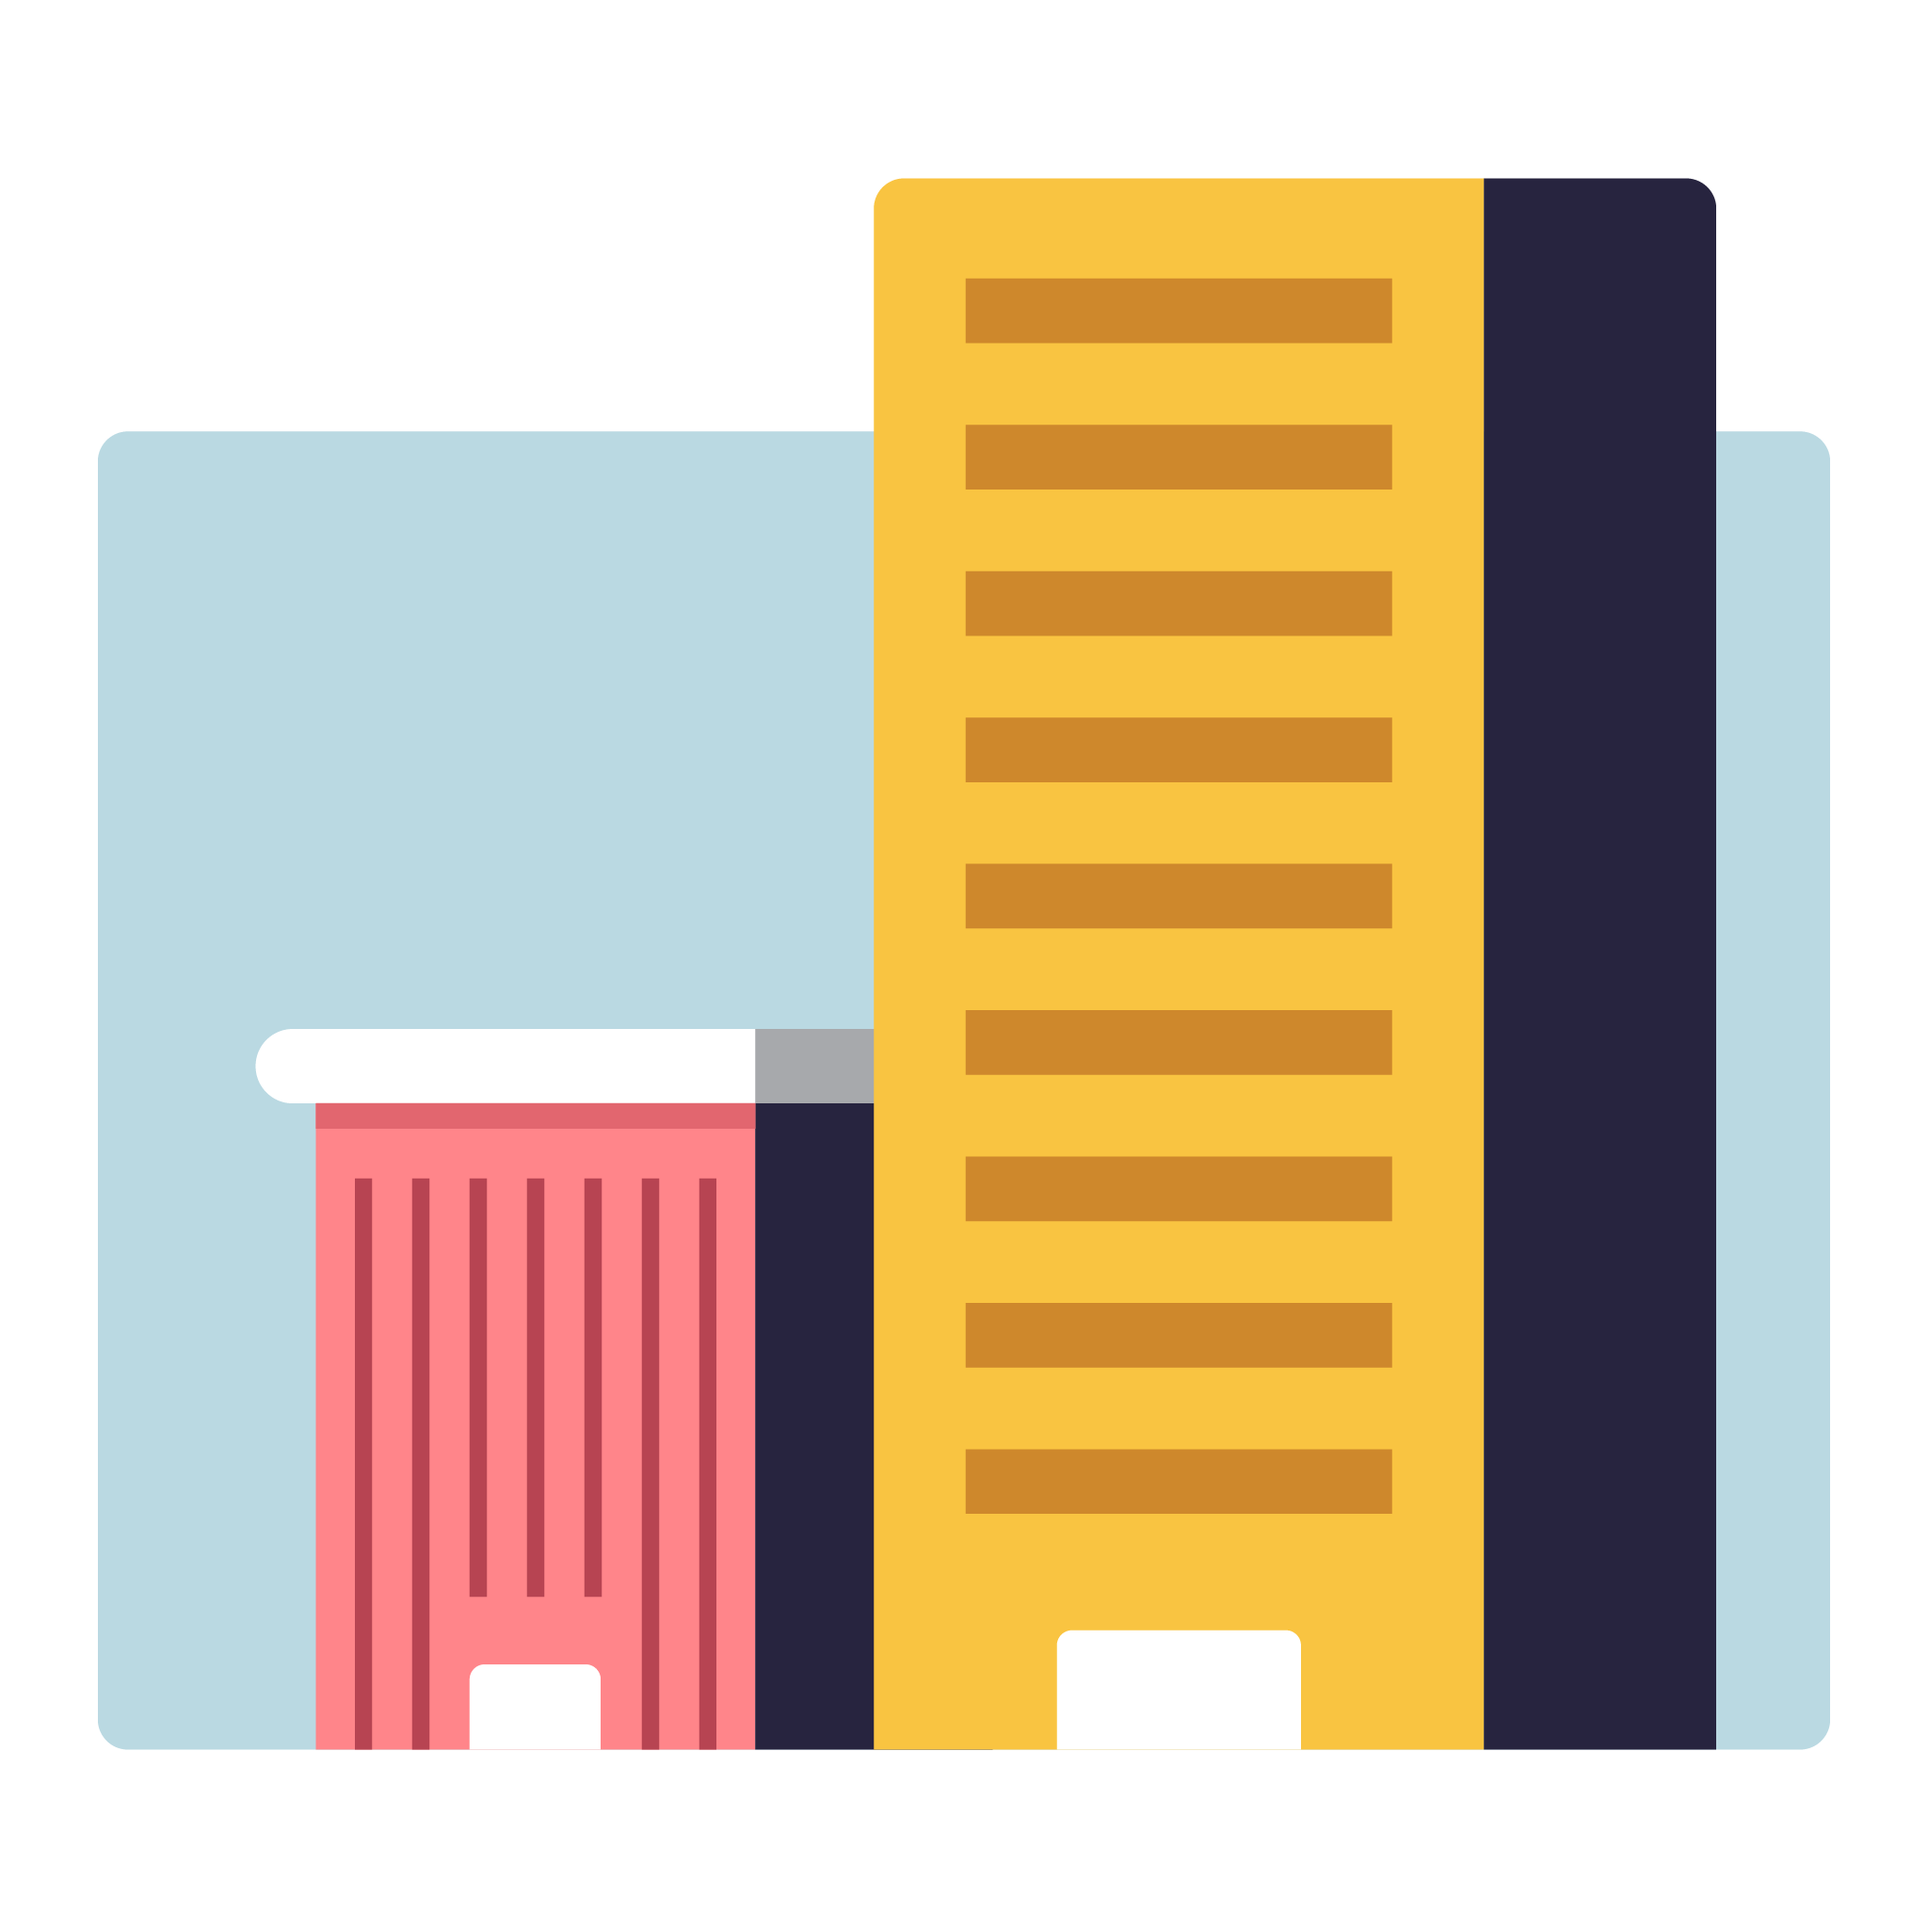
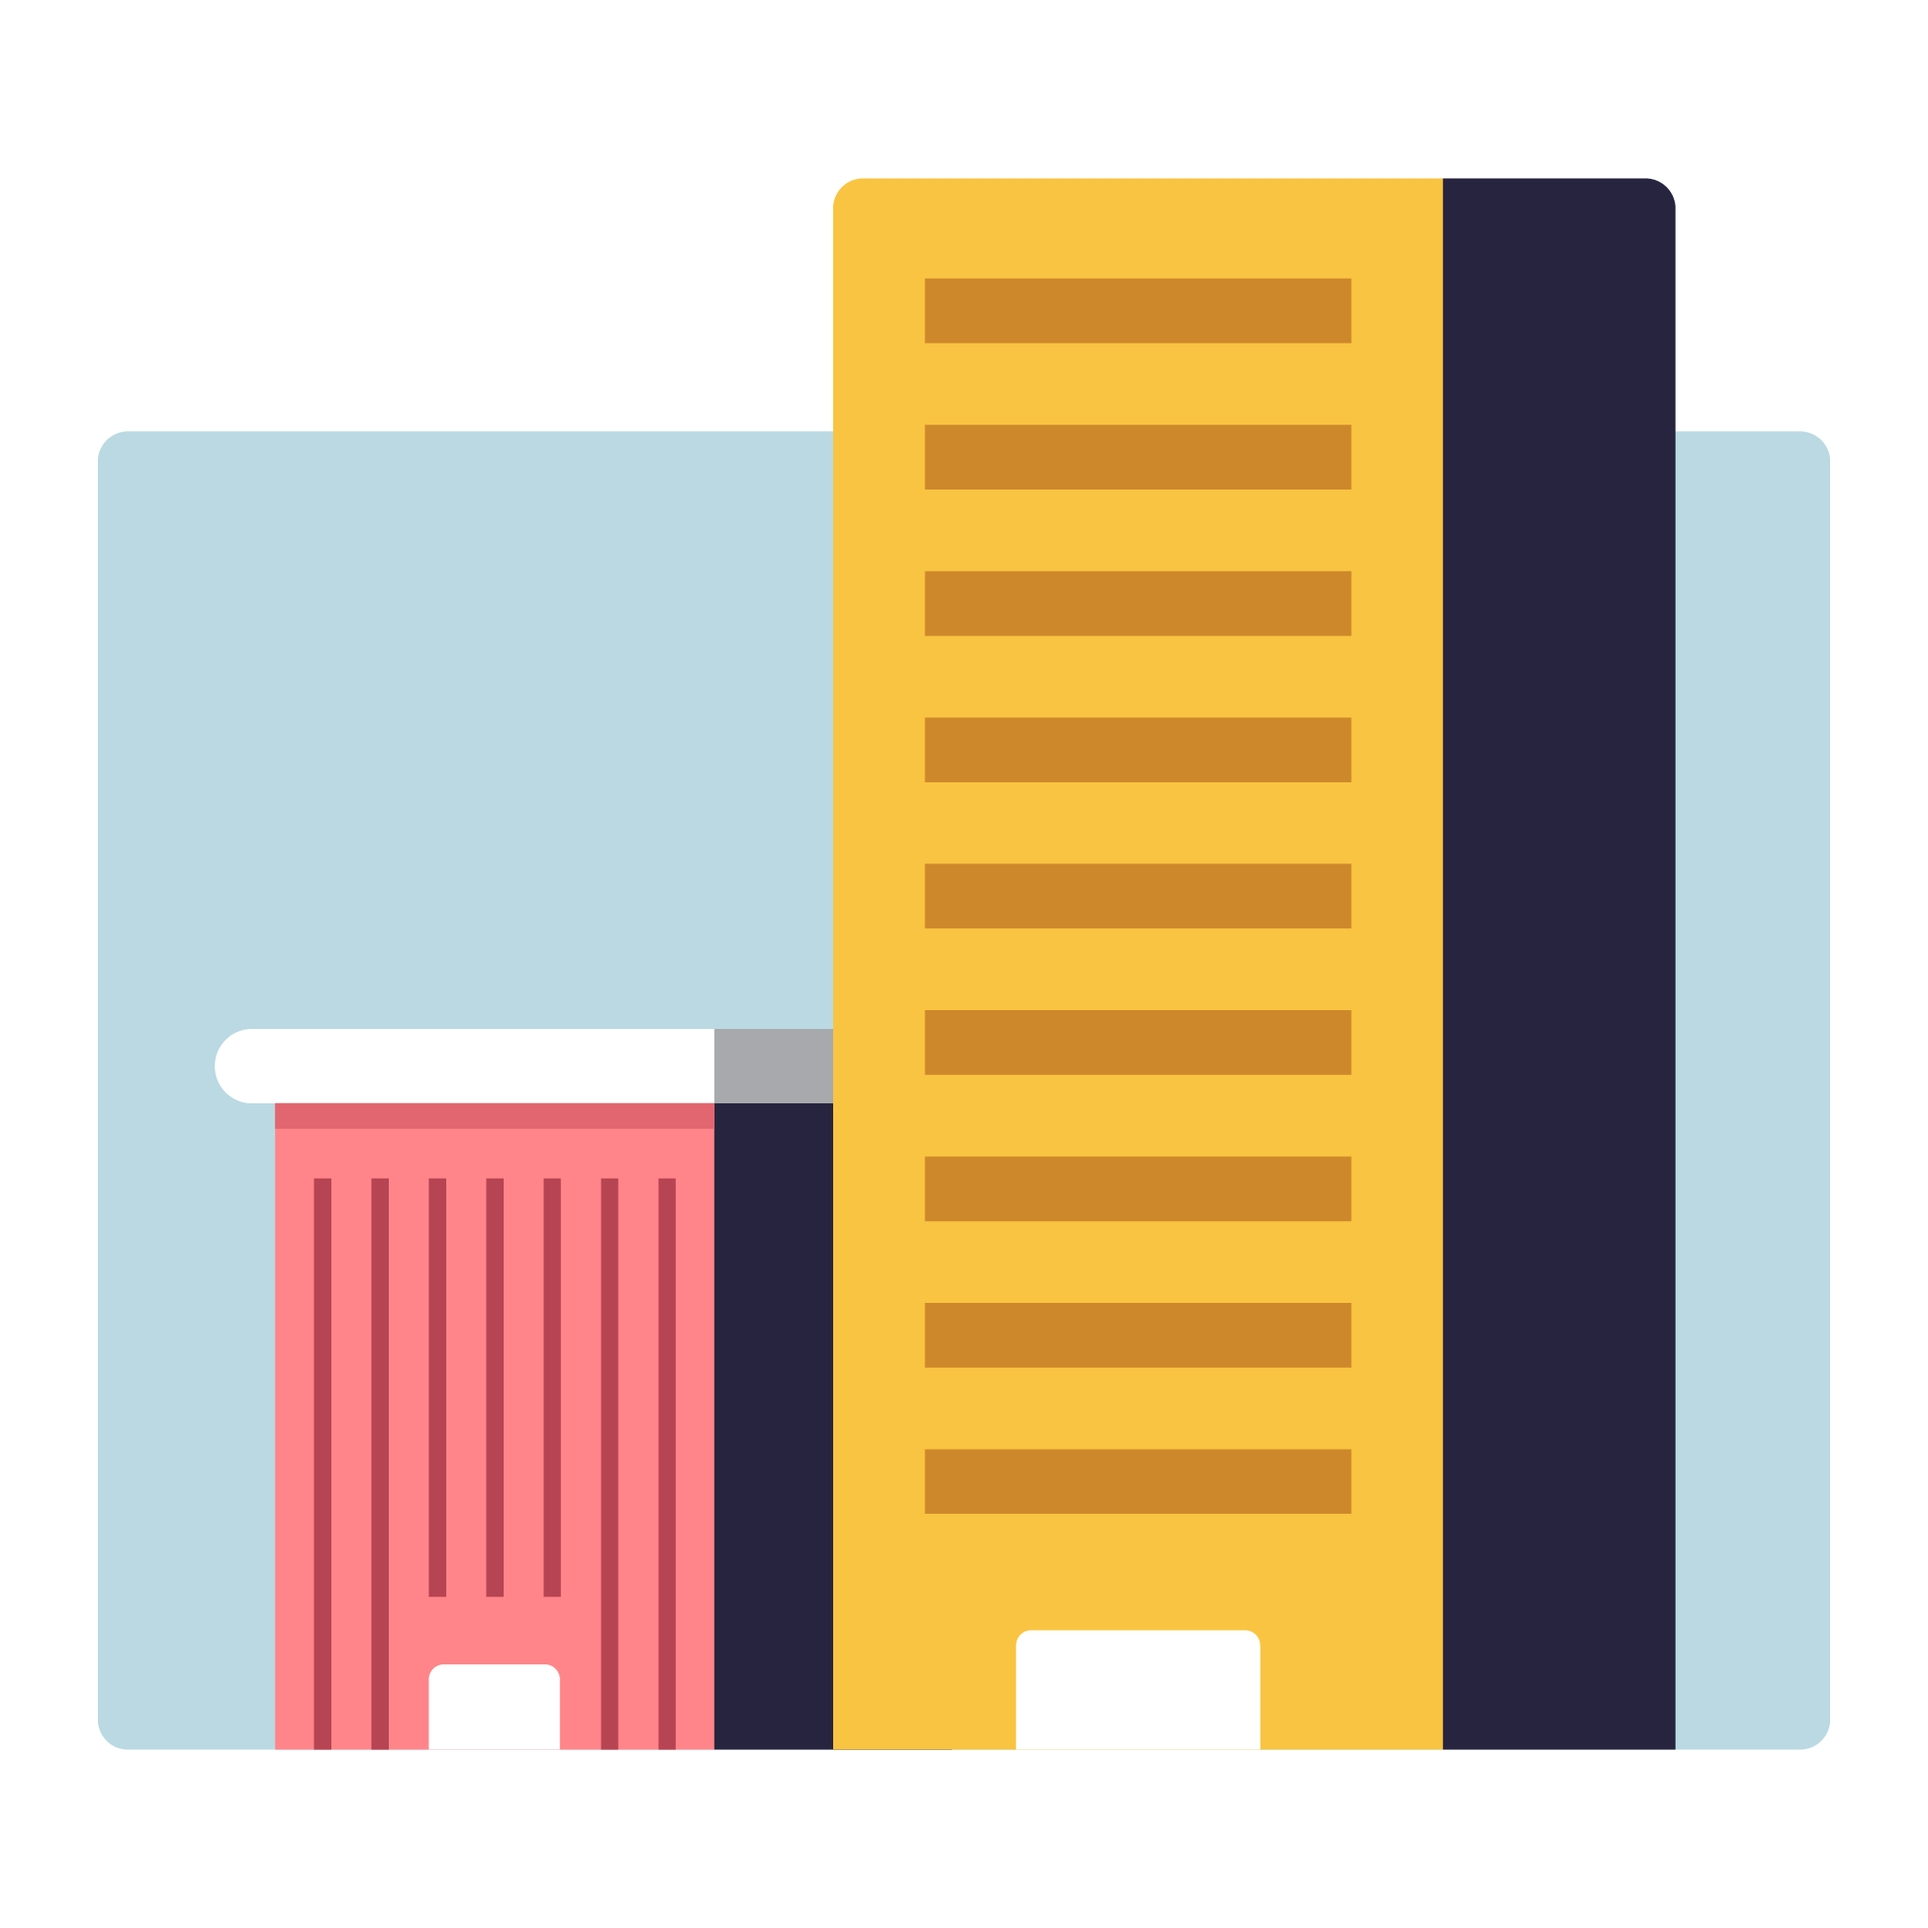
update

diff --git a/linkdb-snapshots.html b/linkdb-snapshots.html
@@ -349,7 +349,7 @@
           <div class="col-12 col-md-10 col-lg-8 text-center">
 
             <!-- Heading -->
-            <h1 class="mb-10">
+            <h1 class="mb-6">
               Proxycurl is the canonical source of data for other major data resellers
             </h1>
 
@@ -360,7 +360,7 @@
           <div class="col-12 d-flex">
             
             <!-- Image -->
-            <img src="Illustration_landscape_placement.png" alt="more prospect illustration" class="img-fluid">
+            <img src="assets/img/illustrations/Proxycurl canonical source illustration.png" alt="more prospect illustration" class="img-fluid">
 
           </div>
 
@@ -380,7 +380,7 @@
             <div class="card shadow-light-lg mb-6 mb-md-0 lift lift-lg">
               
               <!-- Image -->
-              <img src="Illustration_placement.png" alt="..." class="card-img-top">
+              <img src="assets/img/illustrations/Linkedin guarantee illustration.png" alt="..." class="card-img-top">
 
               <!-- Shape -->
               <div class="position-relative">
